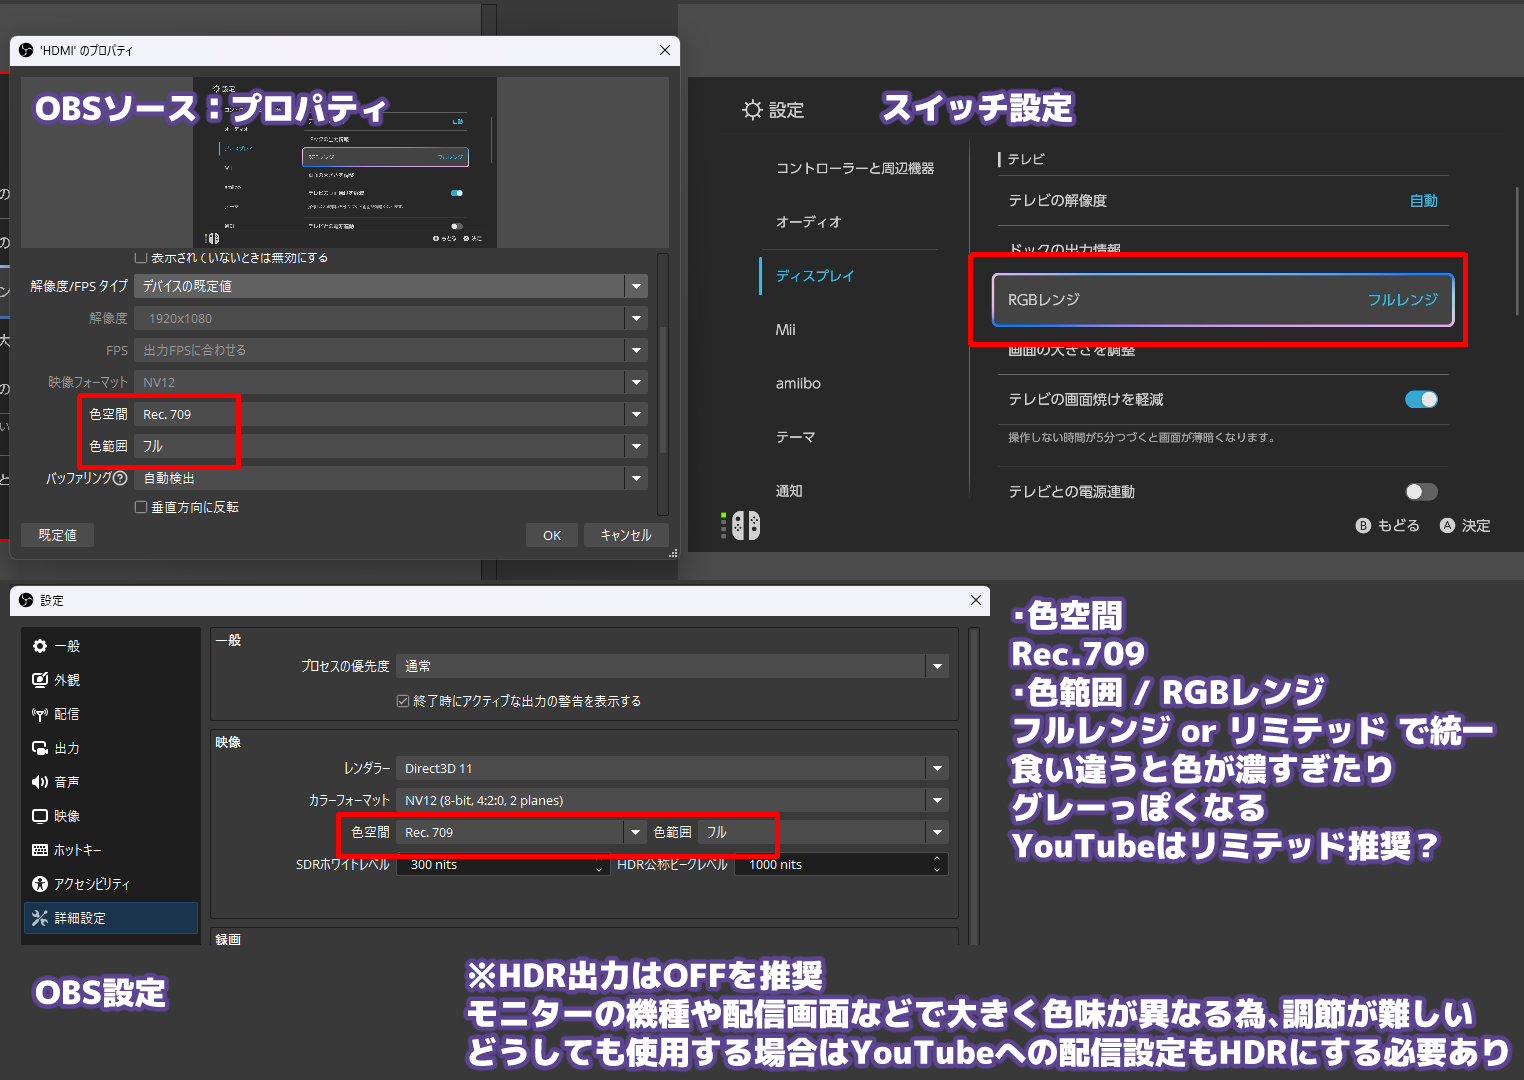
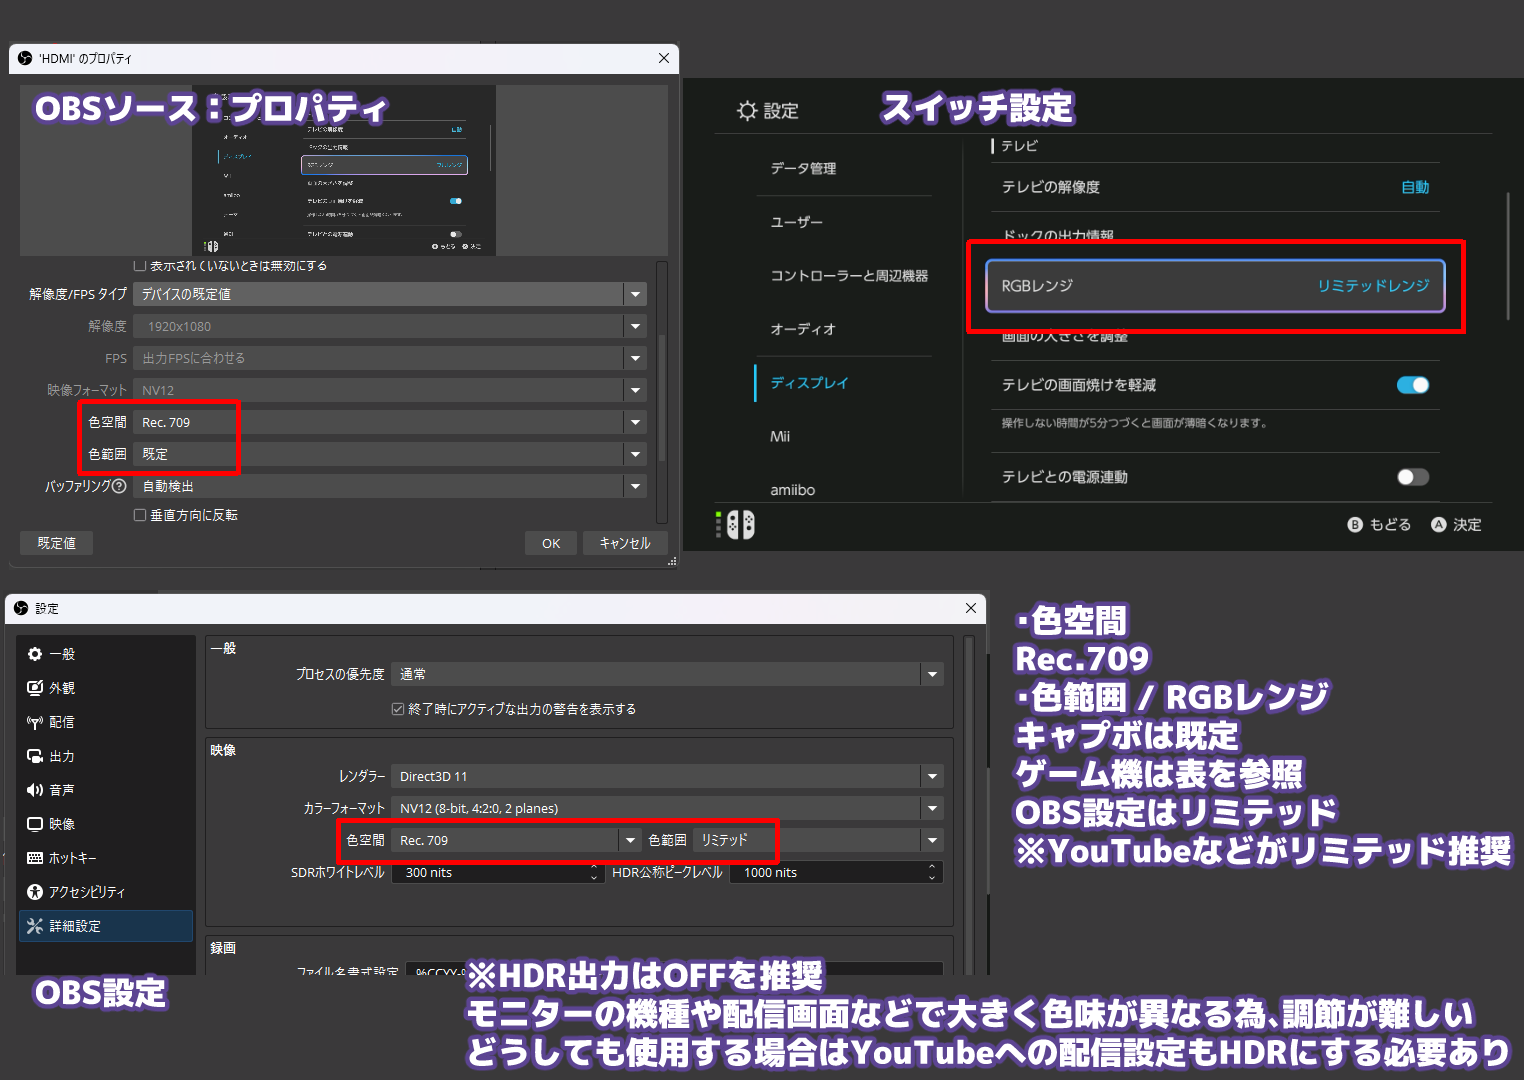
OBSのカラーレンジ設定を入力と出力で分けて考えるように修正

diff --git a/content/obs/color-range/index.md b/content/obs/color-range/index.md
@@ -25,8 +25,40 @@ tags:
 ## 基本設定
 
 OBS側の色空間を `Rec. 709` に設定します<br>
-色範囲 / RGBレンジは、接続している機器すべてで フル または リミテッド で統一してください<br>
-一致していないと **色が濃くなる / 薄くなる** といった問題が発生します
+カラーレンジ (色範囲 / RGBレンジ など) は<br>
+問題が起きにくいため、リミテッドで統一するのがおすすめです<br>
+
+{{< callout type="warning" >}}
+  間違った設定を行うと **色が濃くなる / 薄くなる** といった問題が発生します<br>
+  そのため、リミテッドで統一するのが最も手軽な設定となります
+{{< /callout >}}
+
+## キャプチャ設定
+
+![キャプチャ設定](obs-input-color.png)
+
+| 項目 | 設定の目安 |
+| --- | --- |
+| 色空間 | `Rec. 709` |
+| 色範囲 | 下記表を参照 |
+| HDR | OFF |
+
+キャプチャーデバイスのフォーマットにより、うまく扱えるカラーレンジが決まります<br>
+安全策はリミテッド (限定) です
+
+| OBSで選択されている形式 | ゲーム機側の推奨 |
+| --- | --- |
+| NV12 | リミテッド |
+| YUY2 | リミテッド |
+| I420 | リミテッド |
+| XRGB | フルも使用可能 |
+| RGB・BGRA・BGRX | フルも使用可能 |
+| MJPEG | キャプチャーカード依存のためリミテッドが安全 |
+
+## 出力設定
+
+![出力設定](obs-output-color.png)
+
 {{< callout type="info" >}}
   配信サイト側がリミテッドレンジに変換しているとの情報もあるため、<br>
   配信用設定はリミテッドレンジがおすすめです
@@ -34,25 +66,9 @@ OBS側の色空間を `Rec. 709` に設定します<br>
   https://support.google.com/youtube/answer/1722171
 {{< /callout >}}
 
-| 項目 | 設定の目安 |
-| --- | --- |
-| 色空間 | `Rec. 709` |
-| 色範囲 | ゲーム機側のRGBレンジと同じ設定 |
-| HDR | OFF |
-
-![SwitchのRGBレンジとOBSの色設定](switch-obs-color.png)
-
 ## 変更方法
 
-1. OBS → 設定 → 詳細設定 で 色範囲を変更
-2. OBSの映像キャプチャデバイスでプロパティを開く → 色範囲を変更
-3. ゲーム機のカラーレンジ設定を変更する
-
-{{< callout type="warning" >}}
-  フルとリミテッドが混ざらないように気を付けてください
-{{< /callout >}}
-
-## Switch2
+### Switch2
 設定 → ディスプレイ
 
 | 項目 | 設定の目安 |
